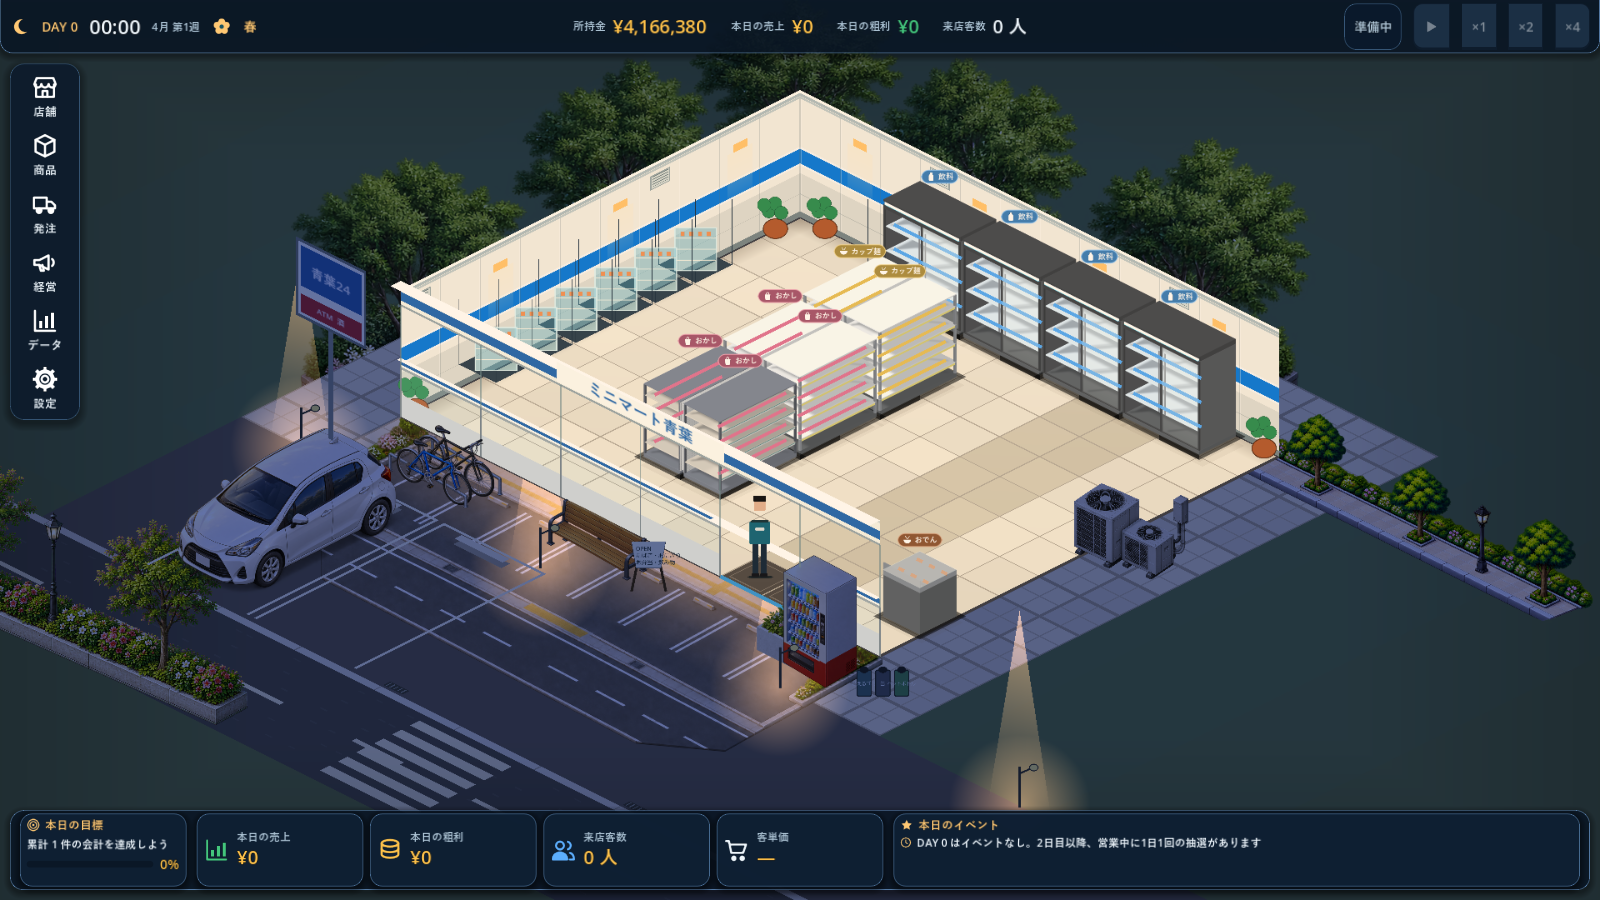
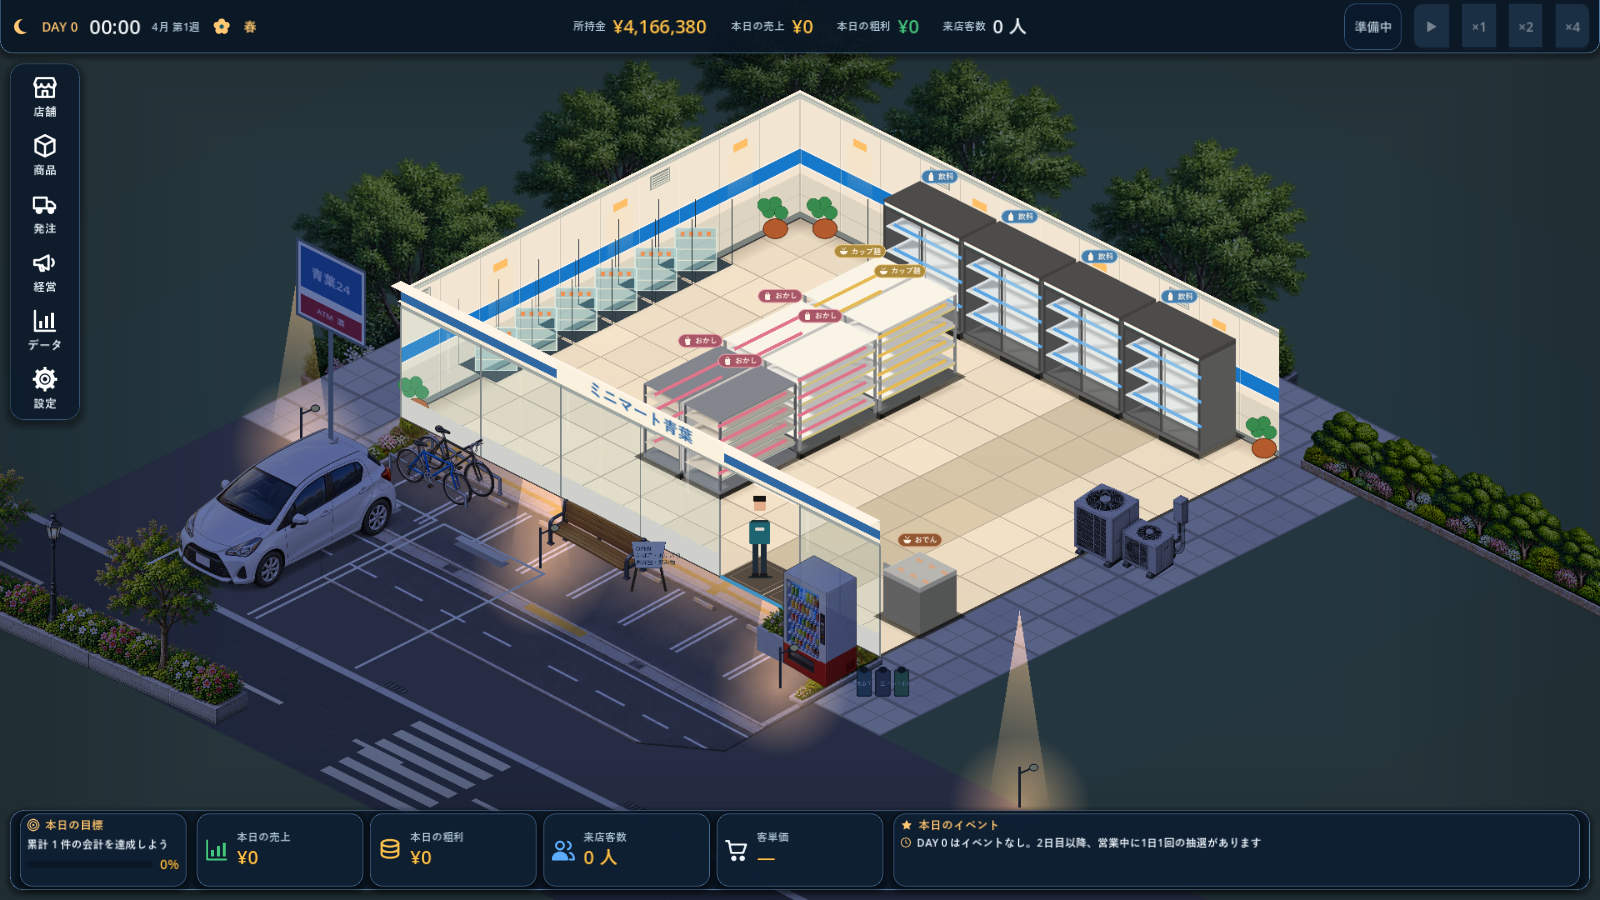
Improve ground-anchored exterior greenery and glazing

diff --git a/tools/assets/package_roadside_greenery_v2.py b/tools/assets/package_roadside_greenery_v2.py
@@ -1,0 +1,112 @@
+"""Package the generated long tree bed with a measured +0.5 iso ground edge."""
+from pathlib import Path
+import hashlib
+import json
+
+import numpy as np
+from PIL import Image
+
+ROOT = Path(__file__).resolve().parents[2]
+ASSET_ID = "roadside_greenery_v2"
+SOURCE = ROOT / "assets/source/background" / ASSET_ID / "side_strip_v1.png"
+DEST = ROOT / "assets/generated/backgrounds" / ASSET_ID
+
+
+def edge_samples(alpha: np.ndarray) -> list[tuple[int, int]]:
+    height, width = alpha.shape
+    samples = []
+    for x in range(width):
+        ys = np.flatnonzero(alpha[:, x] >= 220)
+        if ys.size:
+            samples.append((x, int(ys[-1])))
+    if len(samples) < 30:
+        raise ValueError("not enough planter-edge samples")
+    return samples
+
+
+def edge_line(samples: list[tuple[int, int]]) -> tuple[float, float]:
+    points = np.asarray(samples, dtype=np.float64)
+    # Robustly reject the occasional leaf/drop-shadow tail without ignoring the planted edge.
+    slope, intercept = np.polyfit(points[:, 0], points[:, 1], 1)
+    residual = np.abs(points[:, 1] - (slope * points[:, 0] + intercept))
+    keep = residual <= max(8.0, float(np.percentile(residual, 75)))
+    return tuple(float(v) for v in np.polyfit(points[keep, 0], points[keep, 1], 1))
+
+
+def write_json(path: Path, value: dict) -> None:
+    path.write_text(json.dumps(value, ensure_ascii=False, indent=2) + "\n", encoding="utf-8")
+
+
+def main() -> None:
+    source = Image.open(SOURCE).convert("RGBA")
+    width, height = source.size
+    alpha = np.asarray(source.getchannel("A"))
+    source_slope, source_intercept = edge_line(edge_samples(alpha)[::max(1, width // 220)])
+    shear = 0.5 - source_slope
+    xs = np.nonzero(alpha)[1]
+    ys = np.nonzero(alpha)[0]
+    center_x = (width - 1) * 0.5
+    vertical_shift = shear * (xs - center_x)
+    pad_top = max(0, int(np.ceil(-float(vertical_shift.min()))) + 3)
+    pad_bottom = max(0, int(np.ceil(float(vertical_shift.max()))) + 3)
+    output_size = (width, height + pad_top + pad_bottom)
+    # This affine vertical shear aligns the authored ground edge while keeping trunks vertical.
+    inverse = (1.0, 0.0, 0.0, -shear, 1.0, shear * center_x - pad_top)
+    result = source.transform(output_size, Image.Transform.AFFINE, inverse, resample=Image.Resampling.BICUBIC)
+    out_alpha = np.asarray(result.getchannel("A"))
+    samples = edge_samples(out_alpha)
+    output_slope, output_intercept = edge_line(samples[::max(1, width // 220)])
+    if abs(output_slope - 0.5) > 0.02:
+        raise ValueError(f"wrong projected planter-edge slope: {output_slope}")
+    ground_px = [round(center_x, 3), round(output_slope * center_x + output_intercept, 3)]
+    left_y = round(output_intercept, 3)
+    right_y = round(output_slope * (width - 1) + output_intercept, 3)
+    ground_start = [int(samples[0][0]), int(samples[0][1])]
+    ground_end = [int(samples[-1][0]), int(samples[-1][1])]
+
+    DEST.mkdir(parents=True, exist_ok=True)
+    result.save(DEST / f"{ASSET_ID}.png", optimize=True)
+    bbox = result.getchannel("A").getbbox()
+    metadata = {
+        "manifest_version": 1,
+        "asset_id": ASSET_ID,
+        "category": "static_world_anchored_exterior_vegetation_strip",
+        "view_direction": "iso2x_v1 continuous one-edge planting strip",
+        "render_width_px": width,
+        "render_height_px": output_size[1],
+        "ground_anchor_px": ground_px,
+        "ground_edge_endpoints_px": [ground_start, ground_end],
+        "anchor_type": "planter_ground_contact_at_world_side_anchor_z0",
+        "sort_key": "vegetation_before_store_and_wall_occlusion",
+        "runtime_fit": {
+            "uniform_scale_only": True,
+            "world_edge_length": "full_store_side_plus_1m_overhang",
+            "source_ground_edge_slope": output_slope,
+            "target_edge_slopes": [-0.5, 0.5],
+            "runtime_vertical_shear": 0.5 - output_slope,
+            "roots_hidden_by_wall": True,
+        },
+        "source_file": f"assets/source/background/{ASSET_ID}/{SOURCE.name}",
+        "alpha_bbox_px": list(bbox) if bbox else None,
+    }
+    provenance = {
+        "asset_id": ASSET_ID,
+        "source_type": "ai_generated",
+        "tool": "built-in image_gen via image-generation subagent",
+        "generation_id": "exec-6dc3588e-7135-4c78-8f10-972f660e4805",
+        "prompt": "Transparent long straight isometric garden strip: dense mature green trees, layered shrubs, pink and white flowers, narrow stone planter, vertical trunks, no pavement, lamp, signage, wall, people or text.",
+        "source_file": metadata["source_file"],
+        "original_sha256": hashlib.sha256(SOURCE.read_bytes()).hexdigest(),
+        "packaging_script": "tools/assets/package_roadside_greenery_v2.py",
+        "operations": ["small measured vertical affine shear to align the planting ground edge to the +/-0.5 isometric wall slope; uniform runtime scaling"],
+        "source_ground_edge_slope": source_slope,
+        "output_ground_edge_slope": output_slope,
+        "limitations": ["Thin generated color fringe remains at a few extreme silhouette pixels; inspect at game scale.", "Static spring landscape; the wall occludes its planter roots."],
+    }
+    write_json(DEST / f"{ASSET_ID}.visual.json", metadata)
+    write_json(DEST / "PROVENANCE.json", provenance)
+    print(json.dumps({"size": output_size, "source_slope": source_slope, "output_slope": output_slope, "ground_anchor_px": ground_px, "ground_edge_endpoints_px": [ground_start, ground_end]}, ensure_ascii=False))
+
+
+if __name__ == "__main__":
+    main()

diff --git a/docs/qa/exterior-2026-10-28/RESULTS.md b/docs/qa/exterior-2026-10-28/RESULTS.md
@@ -2,7 +2,7 @@
 
 ## Scope
 
-Reviewed the generated rear V-shaped planting bed, full-length right-side planted strip, and combined entrance/parking apron in the actual Godot game at 1600×900. Captures use whole-store fit and the sample store layout. The 12×10 and 20×16 layouts use the game's small and large size controls; 16×12 is the default layout.
+Reviewed the generated rear V-shaped planting bed, full-length right-side planted strip, combined entrance/parking apron, and transparent full-height storefront glazing in the actual Godot game. The three store sizes use whole-store fit at 1600×900; additional captures cover 1280×720 at low zoom, 1920×1080 at high zoom, a 20×16 camera pan, and build placement preview.
 
 ## Changes
 
@@ -10,26 +10,33 @@ Reviewed the generated rear V-shaped planting bed, full-length right-side plante
 - Anchored the V bed's ground contact to world `(-0.95, -0.95, 0)`, behind the far store corner. The runtime transform is based on that ground point, not the image top/bottom or wall top.
 - Repainted opaque far-wall surfaces after the backdrop vegetation, so planter edges and roots disappear naturally behind the wall while tree crowns remain visible above it.
 - Changed the side planting run from half of the relevant store edge to the full edge plus a 1 m overhang. Its length uses the relevant world side (height for east, width for south).
+- Replaced the side-strip image with a denser grouped tree/shrub/flower asset. Its ground edge was measured and calibrated to the projection slope; runtime uses its measured root edge as the world anchor and uniform scale.
+- Added a subtle, transparent full-height pane and reflection overlay to closed frontage spans. It follows the wall's world geometry, leaves the entrance open, and preserves the visible interior and build preview.
 - Added a generated combined entrance/parking apron with parking bays, road edge, and planted borders; it has no crossing at the store entrance.
 
 ## Game captures
 
 | Layout | Capture | Observation |
 |---|---|---|
-| 12×10 | [store-12x10.png](store-12x10.png) | V foliage continues behind both far walls; lower planting is masked at the wall. Right-side landscape reaches beyond the store end. |
-| 16×12 | [store-16x12.png](store-16x12.png) | Same ground anchor and occlusion; both V branches remain continuous. |
-| 20×16 | [store-20x16.png](store-20x16.png) | Both branches cover the longer far edges; the common uniform scale leaves extra scenery past the shorter branch endpoint rather than a gap. |
-| 20×16, camera panned | [store-20x16-pan.png](store-20x16-pan.png) | Foliage, wall mask, and side planting move together with the world camera. |
+| 12×10 | [store-12x10.png](store-12x10.png) | Ground-anchored V and side foliage remain connected behind the wall; the right strip reaches past the corner. |
+| 16×12 | [store-16x12.png](store-16x12.png) | Both V branches continue behind the walls; facade glazing remains see-through. |
+| 20×16 | [store-20x16.png](store-20x16.png) | Longer walls remain covered and the right strip extends beyond the far corner. |
+| 20×16, camera panned | [store-20x16-pan.png](store-20x16-pan.png) | Store, foliage, and wall occlusion move together with the camera. |
+| 1280×720, low zoom | [store-1280-lowzoom.png](store-1280-lowzoom.png) | Exterior fits the viewport; no detached planting or obvious exposed wall endpoint. |
+| 1920×1080, high zoom | [store-1920-highzoom.png](store-1920-highzoom.png) | Root line stays behind the far walls and the entrance glass remains readable at larger scale. |
+| Build placement preview | [build-preview.png](build-preview.png) | Translucent panes do not cover the placement highlight or obstruct the interior view. |
 
 ## Remaining differences
 
-- The generated flowers, stone edging, lighting, and foliage density are more painterly and less photo-detailed than the target mockup.
+- The generated flowers, stone edging, lighting, and foliage density are more painterly and less photo-detailed than the target mockup. The side strip is still visually repetitive and substantially narrower than the mockup's layered planting bed.
 - Since the V is one continuous image and must retain one uniform scale, the shorter branch can extend beyond its wall endpoint on rectangular store sizes. This intentionally avoids anisotropic stretching and uncovered wall ends; the extra ends should be reviewed by the user.
-- The right-side strip reaches the wall endpoint but remains visually sparser and more repetitive than the reference mockup; it would benefit from a denser, richer one-piece U-shaped asset.
+- The right-side strip reaches the wall endpoint with a 1 m world overhang, but endpoint and continuity were visually checked in game rather than exhaustively sampled for every entrance orientation. A richer one-piece U asset would better match the layered reference planting.
+- Full-height glazing is a transparent procedural overlay; it does not yet reproduce the mockup's detailed door framing, interior reflections, signage, or photographic lighting.
 - The entrance apron and parking details are a painterly combined background rather than individually interactive props. Static spring vegetation has no season variants. Existing temporary in-store potted plants remain separate gameplay props and were not changed.
 
 ## Verification
 
-- Targeted `test_backdrop_layer.gd`: 12 tests, 48 assertions, 0 failures.
+- Targeted `test_backdrop_layer.gd`: 12 tests, 50 assertions, 0 failures.
+- Targeted `test_store_decor.gd`: 18 tests, 375 assertions, 0 failures.
 - GDScript parse checks passed for `backdrop_layer.gd`, `wall_layer.gd`, `store_world.gd`, and the focused unit test.
 - No full test suite was run.

diff --git a/docs/qa/exterior-2026-10-28/MOCKUP_GAP_MATRIX.md b/docs/qa/exterior-2026-10-28/MOCKUP_GAP_MATRIX.md
@@ -1,0 +1,24 @@
+# Reference mockup gap matrix — 2026-10-28
+
+Reference: `C:/Users/yuuna/Downloads/image-1792819026698.webp` (1672×941). Current: `store-16x12.png` (1600×900), captured from the running game with the updated exterior assets. The paired crops below use matched subject areas, not pixel-aligned camera framing.
+
+![Reference and current game crops by exterior region](reference-gap-contact-sheet.jpg)
+
+| Region | Current state compared with the reference | Asset / placement approach | Priority |
+|---|---|---|---|
+| Storefront | Blue fascia and transparent full-height glazing are present. The reference has brighter interior light, stronger reflections, denser signage, and finer door framing. | Keep pane geometry aligned to world frontage; add door/frame detail and authored reflection accents without covering customers or fixtures. | High |
+| Entrance | Door opening, mat, and nearby exterior props remain functional. The entrance reads more sparsely and less like a continuous glass frontage than the reference. | Continue using interactive door placement and world-aligned mat; add modular door surround and glass decal details. | High |
+| Parking | Parking stalls and a parked vehicle are visible, but wheel stops, curb transitions, and surface texture are less detailed. | Build from a few reusable isometric parking/curb pieces and retain world alignment. | High |
+| Road | Road edge, lane marks, and crosswalk are present. The road is darker and flatter than the sunlit target. | Improve asphalt value variation and directional markings as ground artwork; avoid baking store UI into art. | Medium |
+| Sidewalk | Paving ring and curb outline the store. The reference uses lighter, finer tile joints, richer shadows, and more continuous frontage paving. | Continue projection-based ground geometry; tune color and joint density rather than enlarging tiles. | High |
+| Planting | Tall rear trees are rooted behind the walls and naturally masked; the side strip now spans the full wall edge plus overhang. The target is denser, layered, and brighter with flower borders. | Keep grouped one-piece static vegetation panels with measured root anchors and uniform scaling. Improve density and visual variation in a future generated pass. | High |
+| Pole sign | A readable pole sign is present, but its silhouette and face are simpler and smaller than the reference sign stack. | Keep text rendered as UI/font layers; consider a wider multi-panel sign sprite on a world-ground pivot. | High |
+| Outdoor equipment | Vending, bins, bench, bicycle rack, and HVAC props exist; target has more detail and better composition around the facade. | Upgrade as separate reusable props, preserving their current interaction and placement footprints. | Medium |
+| Building side / HVAC | Wall panels and HVAC units are present. The target has finer seams, varied equipment housings, and more convincing night/day material response. | Add modular side-wall overlays and tune equipment sprites/shadows. | Medium |
+| Outdoor lighting | Lamp pools and local lights are visible, but the target has warmer, softer natural illumination and many more contact shadows. | Improve scene lighting and contact shadows independently of vegetation and wall geometry. | Low |
+
+## Current verification boundary
+
+- Store size and view checks are recorded in [RESULTS.md](RESULTS.md): 12×10, 16×12, 20×16, 1280×720 low zoom, 1920×1080 high zoom, camera pan, and build preview.
+- The generated rear V and side strip are static background imagery; movable store props remain separate sprites.
+- The goal is still in progress. This pass specifically resolves ground-based plant anchors, wall occlusion, side-strip length, and an initial full-height glass read. It does not yet reproduce the mockup's photographic lighting, rich indoor detail, or high-density roadside composition.

diff --git a/docs/ASSET_CREDITS.md b/docs/ASSET_CREDITS.md
@@ -198,4 +198,6 @@ cross-check, not a license approval; the human review and redistribution fields 
 
 | roadside_sidewalk_v1 | assets/generated/backgrounds/roadside_sidewalk_v1 | AI | assets/generated/backgrounds/roadside_sidewalk_v1/PROVENANCE.json (prompt) | built-in image_gen (image-generation subagent) | OpenAI generated output; project use | 2026-10-28 | projected side strip; final user acceptance pending | yes |
 
+|roadside_greenery_v2|assets/generated/backgrounds/roadside_greenery_v2|AI|assets/generated/backgrounds/roadside_greenery_v2/PROVENANCE.json (prompt)|built-in image_gen (image-generation subagent)|OpenAI generated output; project use|2026-10-28|dense full-length side planting; review pending|yes|
+
 | exterior_hvac_v1 | assets/generated/props/exterior_hvac_v1 | AI | prompt: isometric outdoor condensers and electrical equipment, transparent background | image_gen | OpenAI output | 2026-10-27 | provisional visual review | yes |
